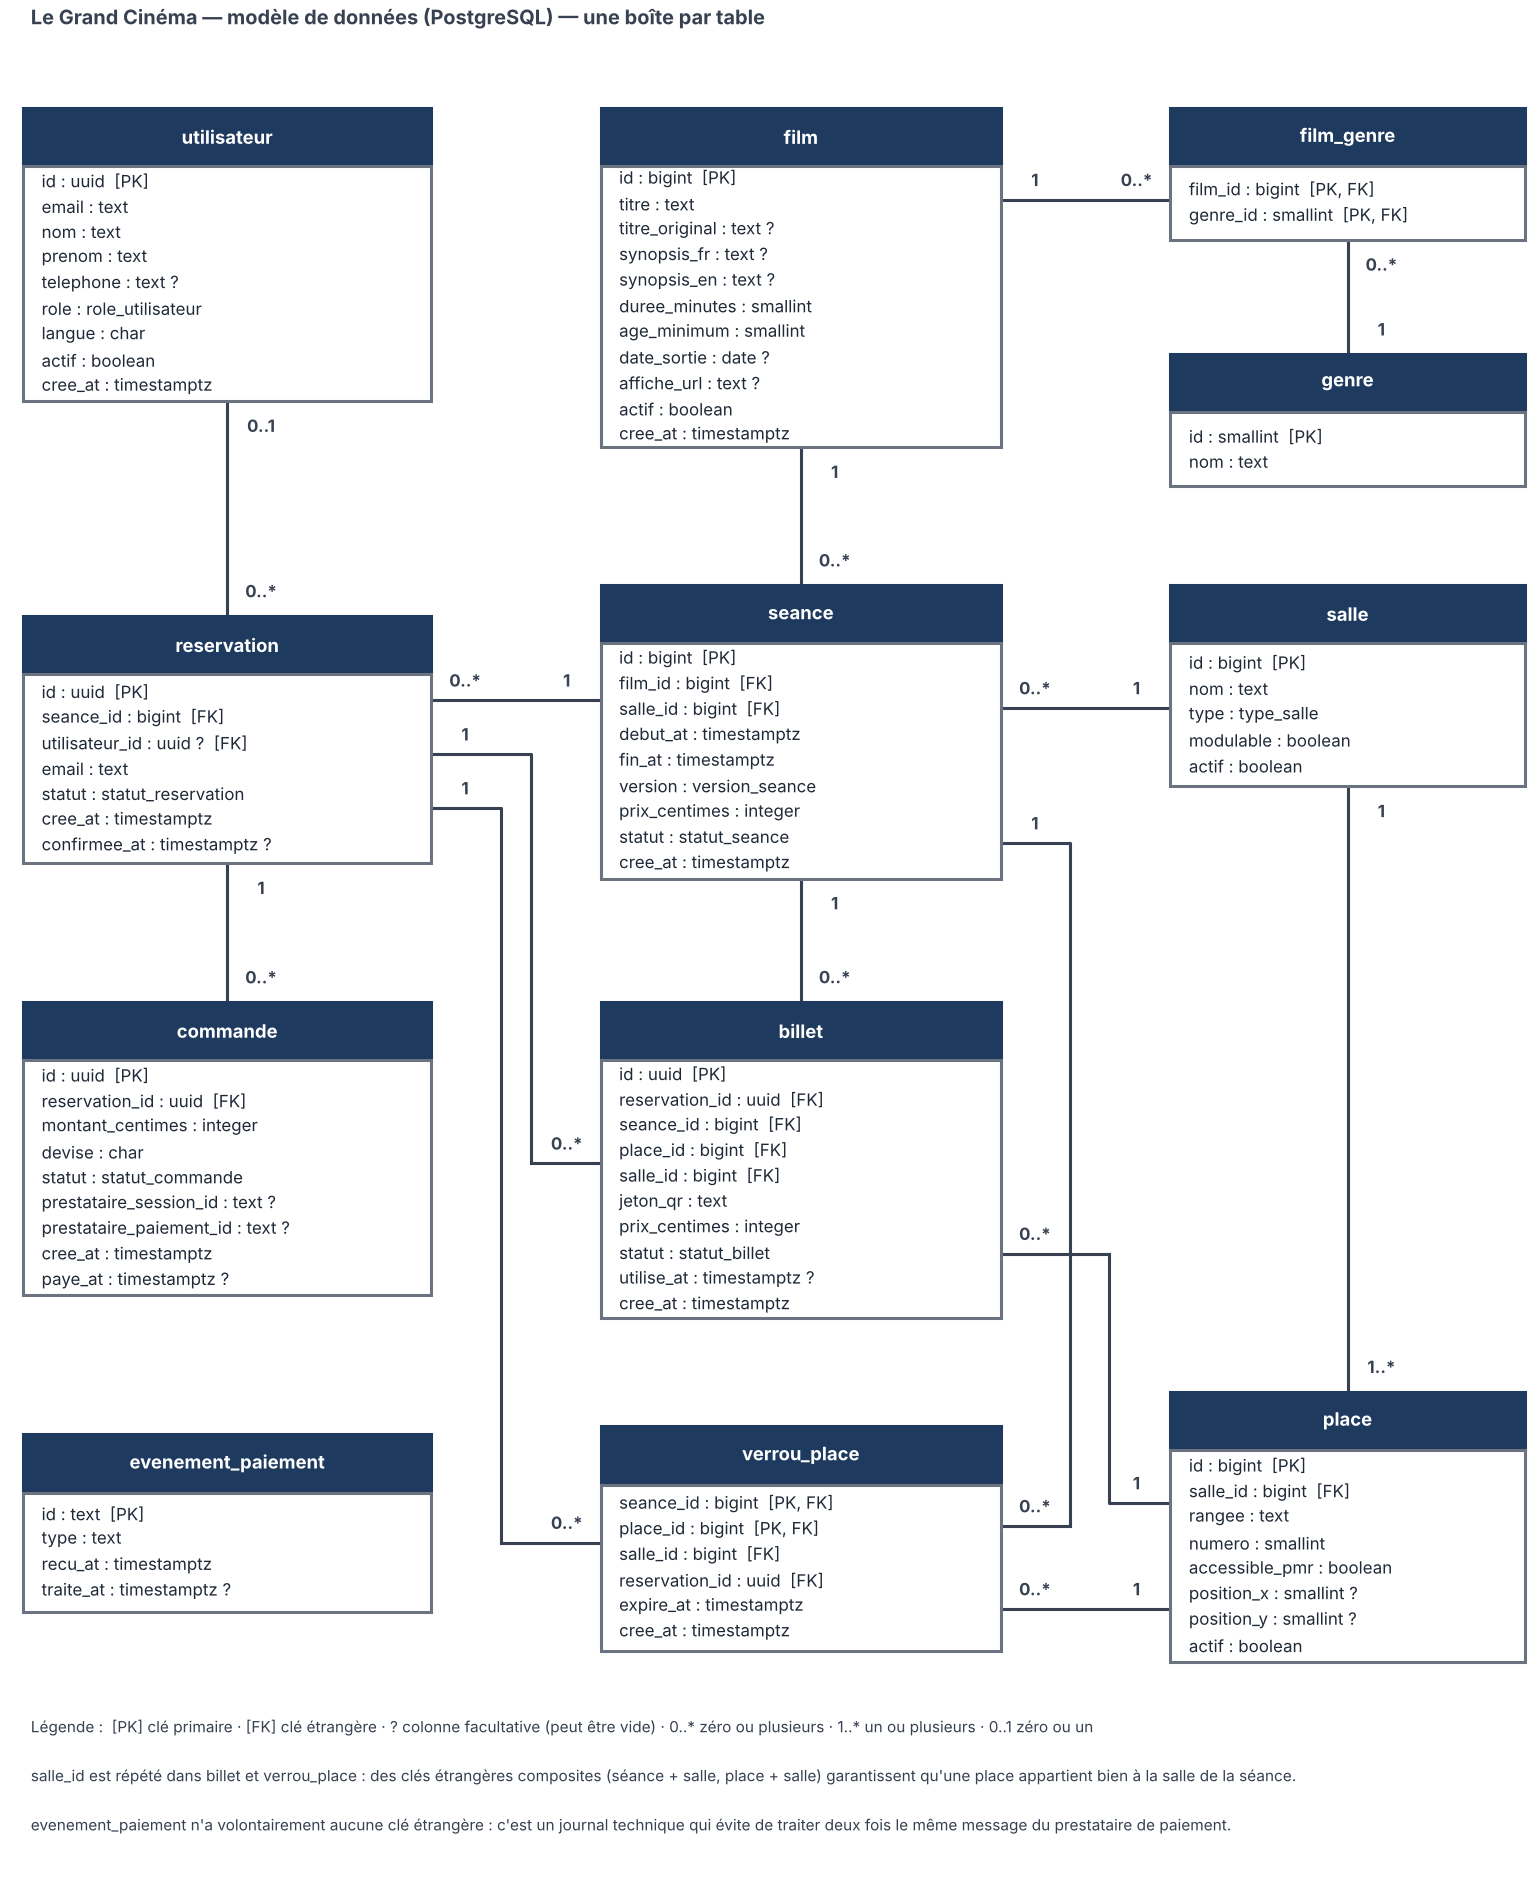
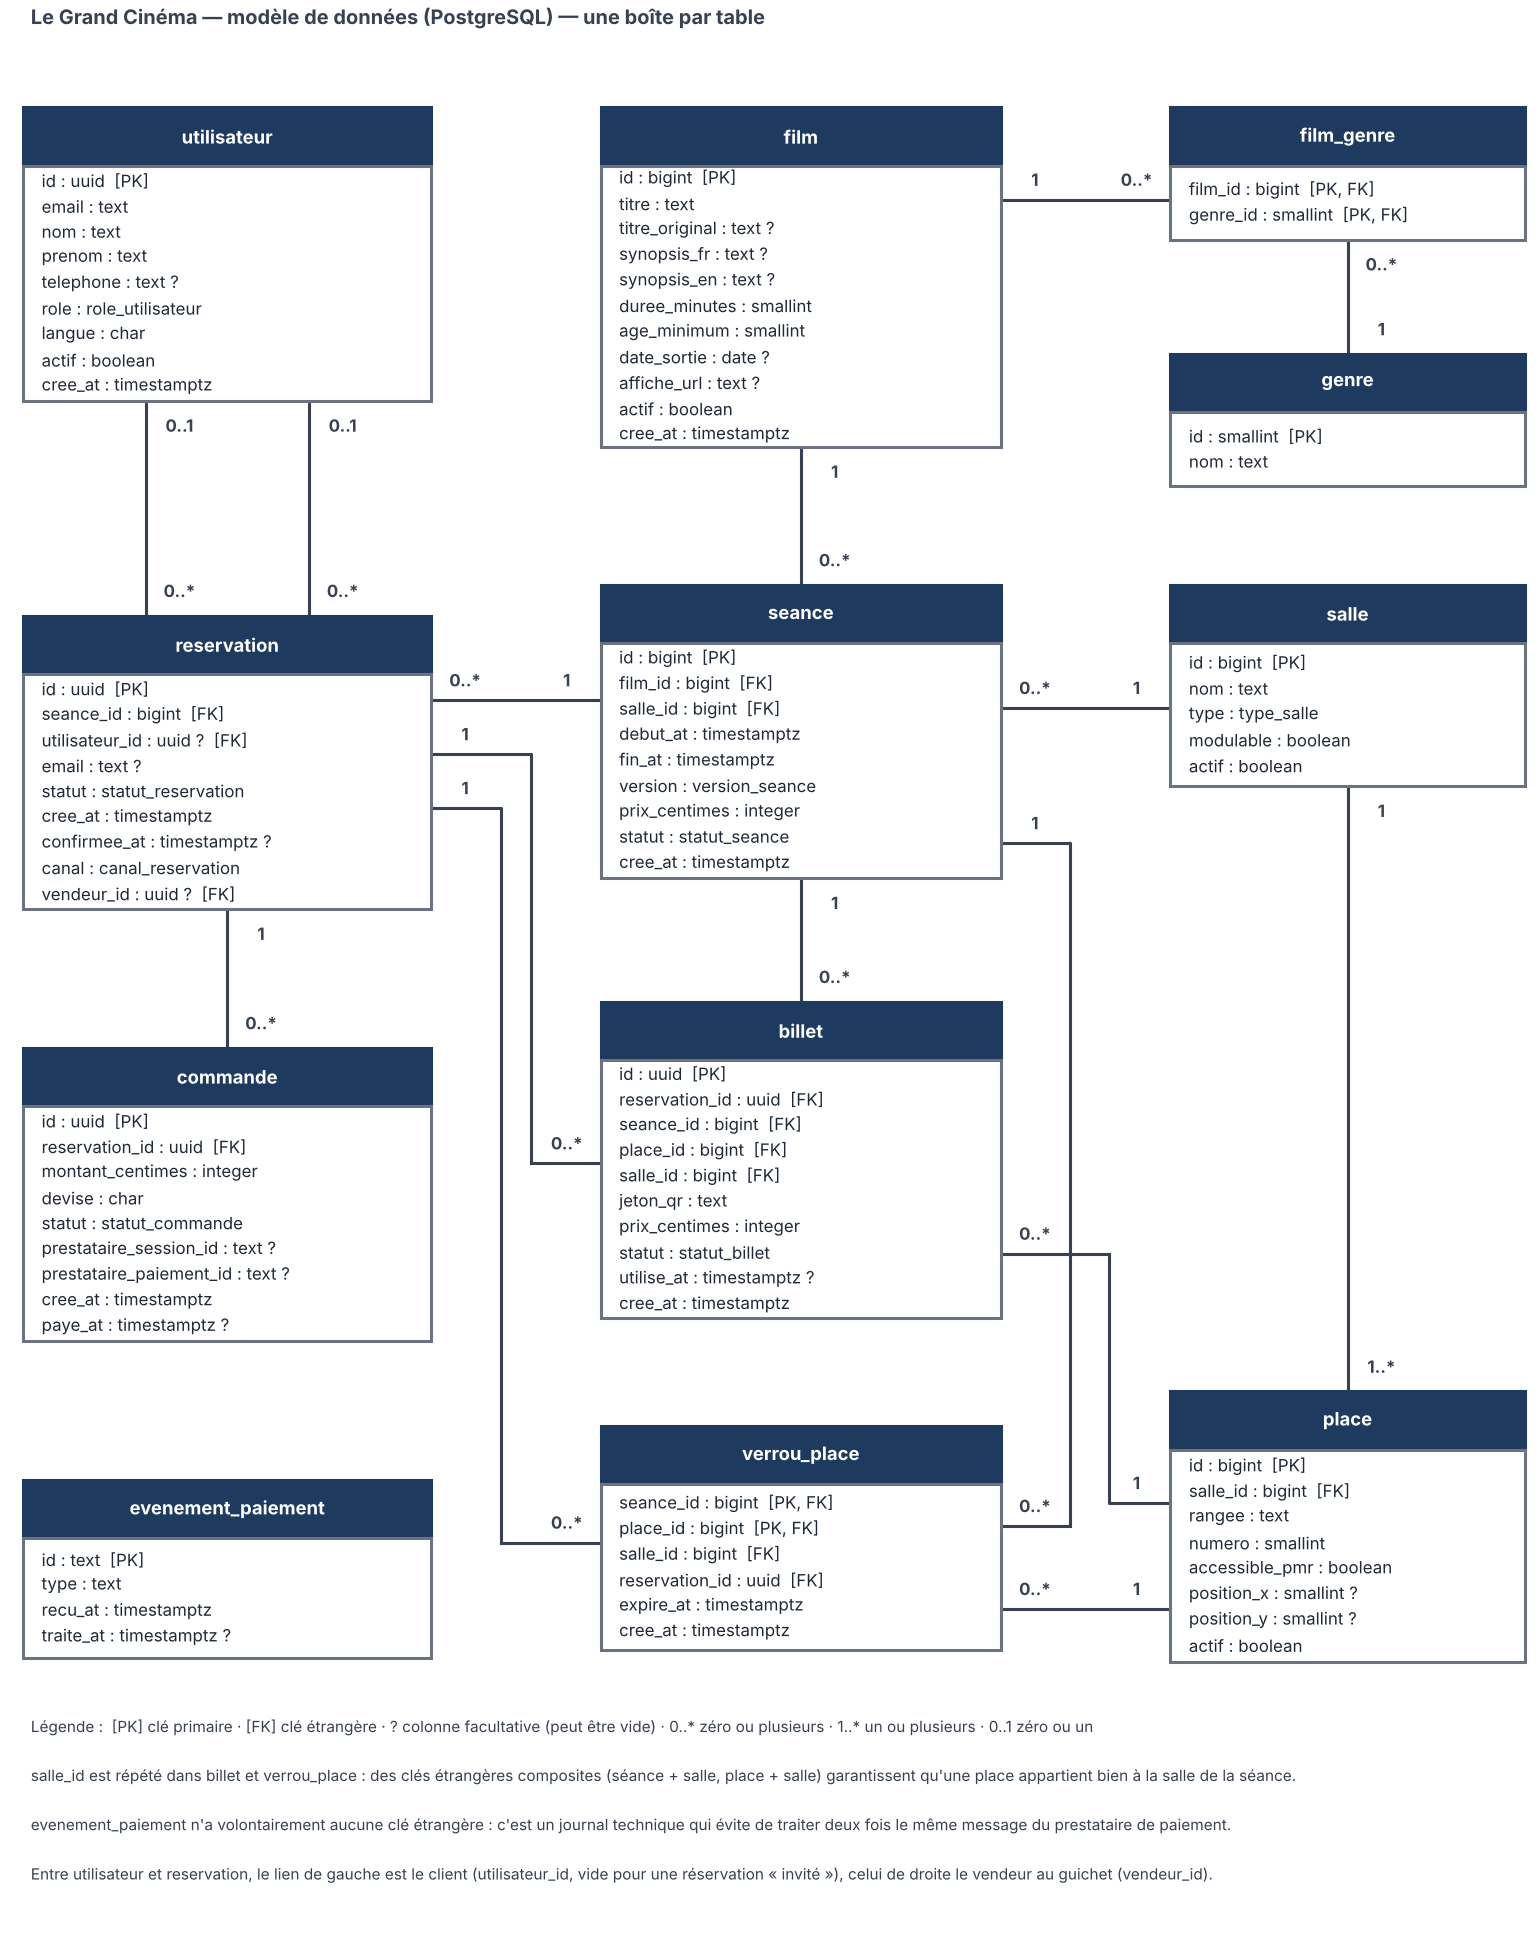
feat(db): permettre la vente au guichet sans e-mail (E8)
La migration 0001 exigeait une adresse e-mail pour toute réservation, ce qui
empêchait la vente au guichet sur le même stock de places que le site (E8).

- ajoute le canal de réservation (en ligne ou guichet) et le vendeur
- e-mail obligatoire en ligne, facultatif au guichet ; vendeur obligatoire
  au guichet uniquement
- 5 tests supplémentaires (33 au total), schéma et documentation mis à jour

diff --git a/docs/modele-de-donnees.md b/docs/modele-de-donnees.md
@@ -2,7 +2,7 @@
 
 Ce document décrit la base de données de l'application de réservation : ce qu'elle contient, les règles qu'elle garantit elle-même, et comment la faire évoluer avec les bons outils.
 
-- Script de création : [`db/migrations/0001_modele_initial.sql`](../db/migrations/0001_modele_initial.sql)
+- Scripts de création : [`db/migrations/0001_modele_initial.sql`](../db/migrations/0001_modele_initial.sql), puis [`0002_vente_guichet.sql`](../db/migrations/0002_vente_guichet.sql) (ventes au guichet)
 - Schéma modifiable : [`docs/schema_base_de_donnees.drawio`](schema_base_de_donnees.drawio) (ouvrir avec [draw.io](https://app.diagrams.net) ou l'extension VS Code « Draw.io Integration »)
 - Image du schéma : [`docs/schema_base_de_donnees.png`](schema_base_de_donnees.png)
 - Tests et jeu d'essai : [`db/`](../db/README.md)
@@ -17,7 +17,8 @@ La version ci-dessous est un diagramme texte (Mermaid) que GitHub affiche direct
 
 ```mermaid
 erDiagram
-    utilisateur |o--o{ reservation : "effectue"
+    utilisateur |o--o{ reservation : "effectue (client)"
+    utilisateur |o--o{ reservation : "vend (guichet)"
     film ||--o{ seance : "est projeté"
     salle ||--o{ seance : "accueille"
     salle ||--|{ place : "contient"
@@ -70,6 +71,8 @@ erDiagram
         uuid id PK
         bigint seance_id FK
         uuid utilisateur_id FK
+        uuid vendeur_id FK
+        canal_reservation canal
         text email
         statut_reservation statut
     }
@@ -114,7 +117,7 @@ erDiagram
 | `salle` | Salles du cinéma (premium/IMAX, standard, VIP, événementielle). | `id` | `modulable` indique une salle réservable en groupe ou pour un événement. |
 | `place` | Un siège d'une salle, identifié par rangée + numéro. | `id` | Unique par (salle, rangée, numéro). `accessible_pmr`, `position_x` et `position_y` servent au plan de salle. |
 | `seance` | Projection d'un film dans une salle à une date et une heure. | `id` | Prix en centimes. Statut : brouillon, publiée, annulée. Deux séances non annulées ne peuvent pas se chevaucher dans la même salle. |
-| `reservation` | Ensemble de places demandées pour une séance. | `id` (uuid) | `utilisateur_id` est vide pour une réservation sans compte (« invité ») ; l'e-mail permet alors de retrouver les billets. |
+| `reservation` | Ensemble de places demandées pour une séance. | `id` (uuid) | `canal` distingue la vente en ligne de la vente au guichet. En ligne, l'e-mail est obligatoire et `utilisateur_id` est vide pour une réservation sans compte (« invité ») : l'e-mail permet de retrouver les billets. Au guichet, l'e-mail est facultatif et `vendeur_id` désigne le membre du personnel qui a vendu. |
 | `commande` | Tentative de paiement associée à une réservation. | `id` (uuid) | Montant en centimes. Plusieurs tentatives possibles, une seule peut être « payée ». |
 | `evenement_paiement` | Journal des messages reçus du prestataire de paiement. | `id` (texte fourni par le prestataire) | Sert à ne traiter chaque message qu'une fois (idempotence). Aucune clé étrangère, volontairement. |
 | `verrou_place` | Blocage temporaire (10 minutes) d'une place pendant le paiement. | (`seance_id`, `place_id`) | Une place ne peut être bloquée que par une seule réservation à la fois. |
@@ -133,6 +136,7 @@ Deux vues facilitent la lecture : `vue_places_seance` donne l'état de chaque pl
 | `reservation.statut` | en_attente_paiement, confirmee, annulee, expiree |
 | `commande.statut` | en_attente, payee, echouee, abandonnee |
 | `billet.statut` | valide, utilise, annule |
+| `reservation.canal` | en_ligne, guichet |
 
 Les cinq rôles recouvrent les profils du backlog : spectateur = U1 et U2 (U2 pouvant réserver sans compte), professionnel = U3, accueil = U4, programmateur = U5, administrateur = U6.
 
@@ -153,10 +157,11 @@ Chaque règle importante est appliquée par la base elle-même, pas seulement pa
 | Une réservation « confirmée » a une date de confirmation, une commande « payée » a une date de paiement, un billet « utilisé » a une date d'utilisation. | Contraintes `CHECK` de cohérence. |
 | Une réservation ne peut être payée qu'une fois. | Index unique partiel `commande_une_seule_payee`. |
 | Un message du prestataire de paiement n'est traité qu'une fois. | Clé primaire de `evenement_paiement` : un doublon est refusé à l'insertion. |
+| Une réservation en ligne a toujours une adresse e-mail ; une vente au guichet a toujours un vendeur et peut se passer d'e-mail (le stock de places est le même que celui du site). | Contraintes `CHECK` `reservation_email_coherent` et `reservation_vendeur_coherent` (migration 0002). |
 | Une adresse e-mail n'a qu'un compte, sans distinction de majuscules ; son format est vérifié. | Index unique sur `lower(email)` et contrainte `CHECK`. |
 | On ne supprime pas par erreur un film, une salle ou une séance utilisés. | Clés étrangères en `ON DELETE RESTRICT`. |
 
-Les 28 tests de [`db/tests/contraintes.sql`](../db/tests/contraintes.sql) vérifient ces règles, et [`db/tests/concurrence.sh`](../db/tests/concurrence.sh) vérifie que, si 20 clients tentent de bloquer la même place au même instant, un seul y parvient.
+Les 33 tests de [`db/tests/contraintes.sql`](../db/tests/contraintes.sql) vérifient ces règles, et [`db/tests/concurrence.sh`](../db/tests/concurrence.sh) vérifie que, si 20 clients tentent de bloquer la même place au même instant, un seul y parvient.
 
 ## 4. Choix de conception
 
@@ -164,7 +169,8 @@ Les 28 tests de [`db/tests/contraintes.sql`](../db/tests/contraintes.sql) vérif
 - **Identifiants uuid pour les données personnelles ou sensibles** (utilisateurs, réservations, commandes, billets) : ils ne se devinent pas et ne révèlent pas le volume de ventes. **Identifiants numériques pour les référentiels** (films, salles, places, séances), plus compacts et plus lisibles.
 - **Horodatages avec fuseau** (`timestamptz`) : stockés en UTC, affichés dans le fuseau du cinéma par l'application.
 - **Capacité d'une salle non stockée** : c'est le nombre de ses places actives (`vue_remplissage_seance`), pour éviter deux valeurs qui se contredisent.
-- **Réservation sans compte** : `reservation.utilisateur_id` peut être vide ; l'e-mail est alors obligatoire pour envoyer et retrouver les billets.
+- **Réservation sans compte** : `reservation.utilisateur_id` peut être vide ; en ligne, l'e-mail est alors obligatoire pour envoyer et retrouver les billets.
+- **Vente au guichet sur le même stock** : le guichet passe par les mêmes tables et les mêmes verrous que le site, donc une place vendue au guichet disparaît immédiatement du plan de salle en ligne. Elle se distingue par son canal, pas par un stock séparé.
 - **Verrou séparé du billet** : le blocage de 10 minutes est temporaire et ne doit jamais être confondu avec une vente ; il disparaît à la confirmation du paiement et le billet est alors créé.
 
 ## 5. Hors périmètre de cette version
@@ -192,7 +198,7 @@ Les 28 tests de [`db/tests/contraintes.sql`](../db/tests/contraintes.sql) vérif
 ### Faire évoluer le modèle sans rien casser
 
 1. Créer une branche selon la convention (par exemple `feature/rsv-12-tarif-reduit`).
-2. **Ne jamais modifier** `0001_modele_initial.sql` une fois appliqué sur une base partagée : ajouter un nouveau fichier numéroté, par exemple `db/migrations/0002_tarifs.sql`, qui contient uniquement le changement (`alter table …`, `create table …`).
+2. **Ne jamais modifier** un fichier de migration (`0001`, `0002`…) une fois appliqué sur une base partagée : ajouter un nouveau fichier numéroté, par exemple `db/migrations/0003_tarifs.sql`, qui contient uniquement le changement (`alter table …`, `create table …`).
 3. Essayer la migration sur une base locale ou de test, charger le jeu d'essai et lancer les tests.
 4. Mettre à jour le schéma (`.drawio` et `.png`) et ce document dans la même Pull Request que la migration.
 5. Après revue, appliquer la migration à l'environnement suivant.

diff --git a/db/README.md b/db/README.md
@@ -17,15 +17,16 @@ PostgreSQL 15 ou plus (testé sur 16) ou un projet Supabase. L'extension `btree_
 ```bash
 createdb lgc_test
 psql lgc_test -v ON_ERROR_STOP=1 -f db/migrations/0001_modele_initial.sql
+psql lgc_test -v ON_ERROR_STOP=1 -f db/migrations/0002_vente_guichet.sql
 psql lgc_test -v ON_ERROR_STOP=1 -f db/seeds/jeu_essai.sql
 ```
 
-Sur Supabase : ouvrir le *SQL Editor*, coller le contenu de chaque fichier et l'exécuter, dans cet ordre.
+Sur Supabase : ouvrir le *SQL Editor*, coller le contenu de chaque fichier et l'exécuter, dans l'ordre des numéros, puis le jeu d'essai.
 
 ## Lancer les tests
 
 ```bash
-psql lgc_test -v ON_ERROR_STOP=1 -f db/tests/contraintes.sql   # 28 tests ; la base n'est pas modifiée
+psql lgc_test -v ON_ERROR_STOP=1 -f db/tests/contraintes.sql   # 33 tests ; la base n'est pas modifiée
 PGDATABASE=lgc_test ./db/tests/concurrence.sh                  # 20 clients, une seule place : 1 seul gagnant
 ```
 
